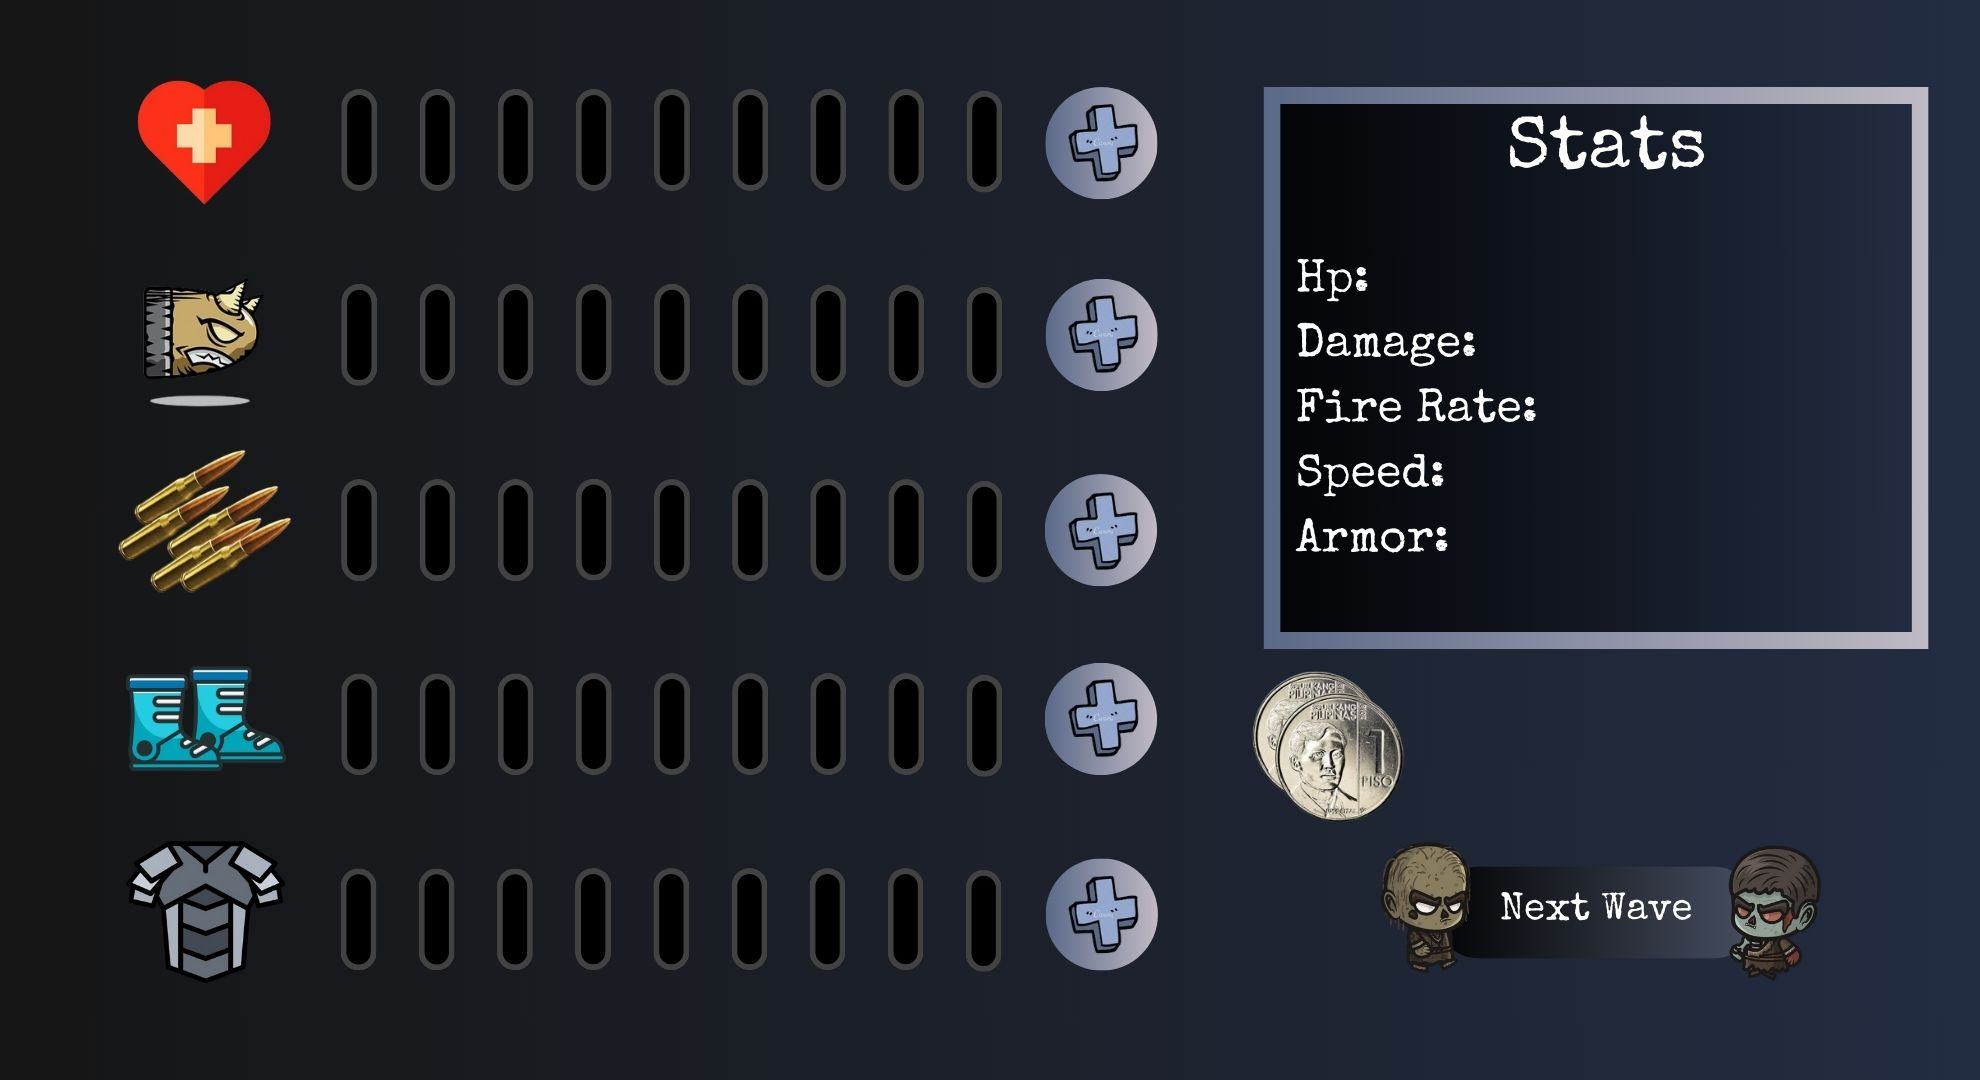
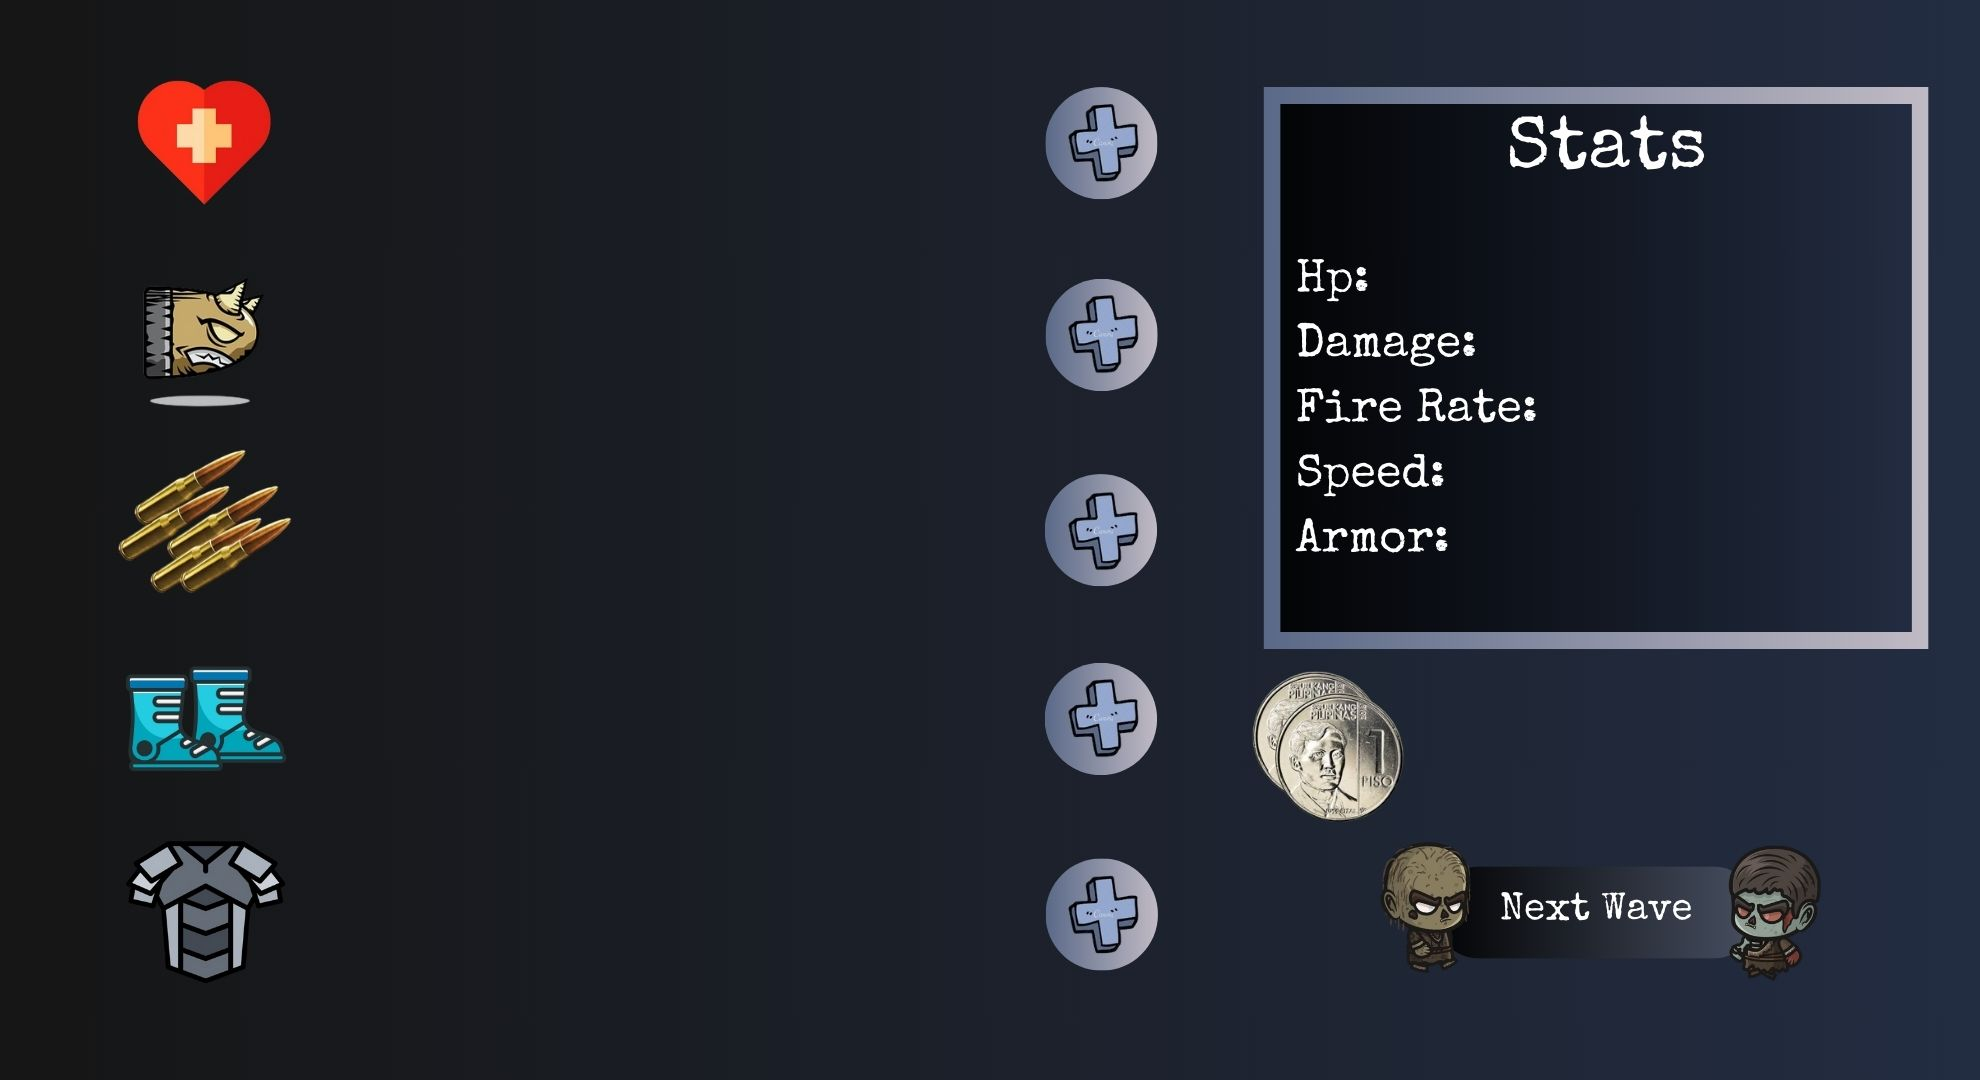
Added Progress Bar Update

diff --git a/core/src/com/mygdx/game/Screens/Intermession.java b/core/src/com/mygdx/game/Screens/Intermession.java
@@ -1,12 +1,14 @@
 package com.mygdx.game.Screens;
 
 import com.badlogic.gdx.Gdx;
+import com.badlogic.gdx.Input;
+import com.badlogic.gdx.InputAdapter;
 import com.badlogic.gdx.Screen;
-import com.badlogic.gdx.ScreenAdapter;
 import com.badlogic.gdx.graphics.GL20;
 import com.badlogic.gdx.graphics.Texture;
 import com.badlogic.gdx.graphics.g2d.SpriteBatch;
-import com.mygdx.game.TitleFight;
+import com.badlogic.gdx.scenes.scene2d.Stage;
+import com.badlogic.gdx.utils.viewport.ScreenViewport;
 
 import javax.sound.sampled.*;
 import java.io.File;
@@ -16,16 +18,32 @@ public class Intermession implements Screen {
     private SpriteBatch batch;
     private Texture background;
     private Clip backgroundClip;
+    private Texture[] progTextures;
+    private int currentProgIndex = 0;
+    private Stage stage;
+    private boolean prevKKeyPressed = false;
+    private Texture placeholder;
 
     public Intermession() {
         batch = new SpriteBatch();
         background = new Texture("assets/Pages/UpgradeScreen.jpg");
+        placeholder = new Texture("assets/Pages/Progress/prog00.png");
+        // Initialize progress textures
+        progTextures = new Texture[10]; // Assuming you have 10 prog images
+        for (int i = 0; i < progTextures.length; i++) {
+            String texturePath = String.format("assets/Pages/Progress/prog%02d.png", i);
+            progTextures[i] = new Texture(texturePath);
+        }
+
+        // Initialize the stage
+        stage = new Stage(new ScreenViewport());
     }
 
     @Override
     public void show() {
         playBackgroundMusic("assets/Audio/UpgradeScreen/UpgradeMenuTheme.wav"); // Specify the path to your audio file
     }
+
 
     @Override
     public void render(float delta) {
@@ -34,8 +52,34 @@ public class Intermession implements Screen {
 
         batch.begin();
         batch.draw(background, 0, 0, Gdx.graphics.getWidth(), Gdx.graphics.getHeight());
+
+        boolean kKeyPressed = Gdx.input.isKeyPressed(Input.Keys.K);
+        if (kKeyPressed && !prevKKeyPressed) {
+            currentProgIndex = (currentProgIndex + 1) % progTextures.length;
+        }
+        prevKKeyPressed = kKeyPressed;
+
+        Texture currentProgTexture = progTextures[currentProgIndex];
+
+
+        float newWidth = (float) (placeholder.getWidth() * 1.3);
+        float newHeight = (float) (placeholder.getHeight() * 1.1);
+
+        batch.draw(currentProgTexture, 320, 865, newWidth, newHeight);
+        batch.draw(currentProgTexture, 320, 685,newWidth,newHeight);
+        batch.draw(currentProgTexture, 320, 485,newWidth,newHeight);
+        batch.draw(currentProgTexture, 320, 305,newWidth,newHeight);
+        batch.draw(currentProgTexture, 320, 105,newWidth,newHeight);
+
         batch.end();
+
+        // Update and draw the stage
+        stage.act(Math.min(Gdx.graphics.getDeltaTime(), 1 / 30f));
+        stage.draw();
     }
+
+
+
 
     private void playBackgroundMusic(String filePath) {
         try {
@@ -49,7 +93,7 @@ public class Intermession implements Screen {
             // Open audio clip and load samples from the audio input stream.
             backgroundClip.open(audioIn);
 
-            //Adjust volume
+            // Adjust volume
             FloatControl gainControl = (FloatControl) backgroundClip.getControl(FloatControl.Type.MASTER_GAIN);
             float volume = (float) (Math.log(0.20) / Math.log(10.0) * 20.0); // -12 dB
             gainControl.setValue(volume);
@@ -70,17 +114,14 @@ public class Intermession implements Screen {
 
     @Override
     public void resize(int width, int height) {
-
     }
 
     @Override
     public void pause() {
-
     }
 
     @Override
     public void resume() {
-
     }
 
     @Override
@@ -93,6 +134,8 @@ public class Intermession implements Screen {
         batch.dispose();
         background.dispose();
         stopBackgroundMusic(); // Ensure the music is stopped and resources are released
+        for (Texture texture : progTextures) {
+            texture.dispose();
+        }
     }
-
 }
